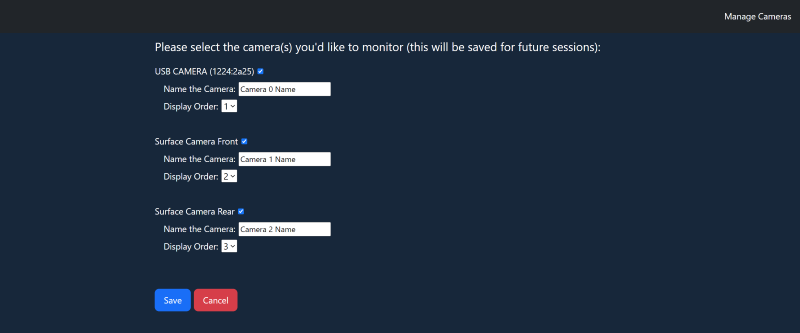
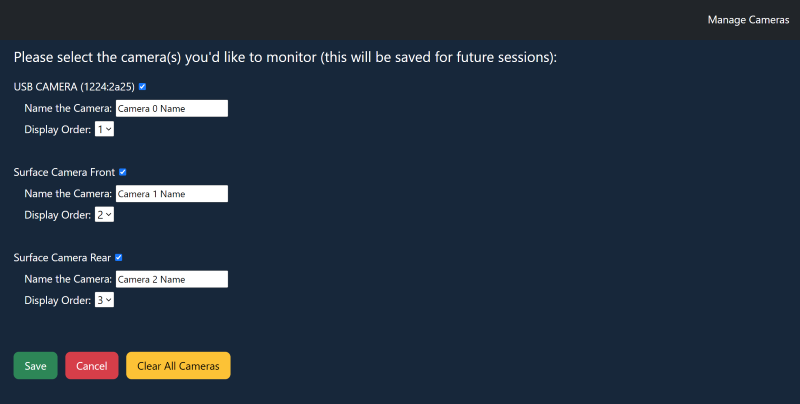
Updated readme images.  Fixed manage cameras closing streams.

diff --git a/js/cameras.js b/js/cameras.js
@@ -182,9 +182,14 @@ async function saveSettings() {
 }
 
 async function manageCameras() {
-  cameras = document.getElementById('cameras');
-  while (cameras.hasChildNodes()) {
-    cameras.removeChild(cameras.firstChild);
+  let cameras = document.getElementsByClassName('camera');
+  for (const camera of cameras) {
+    let stream = camera.srcObject;
+    closeStream(stream);
+  };
+  let camerasBlock = document.getElementById('cameras');
+  while (camerasBlock.hasChildNodes()) {
+    camerasBlock.removeChild(camerasBlock.firstChild);
   }
   savedCamSearch('manage');
 }
